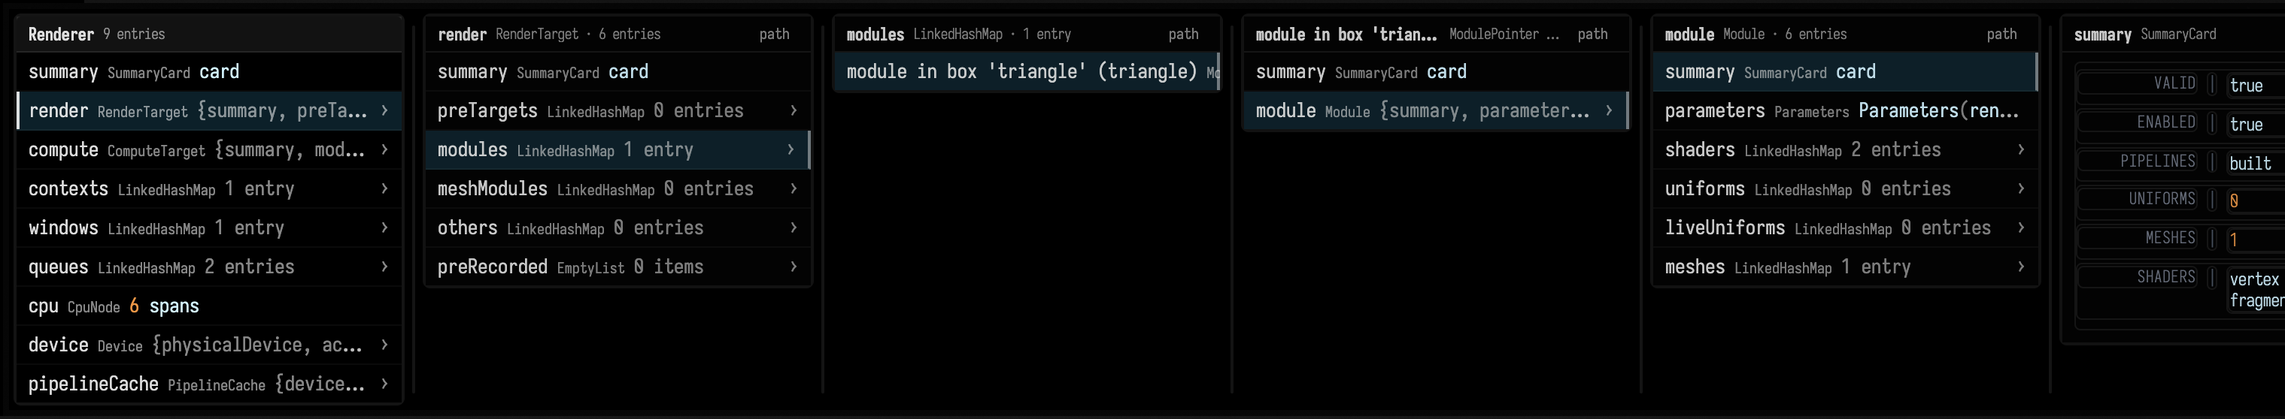
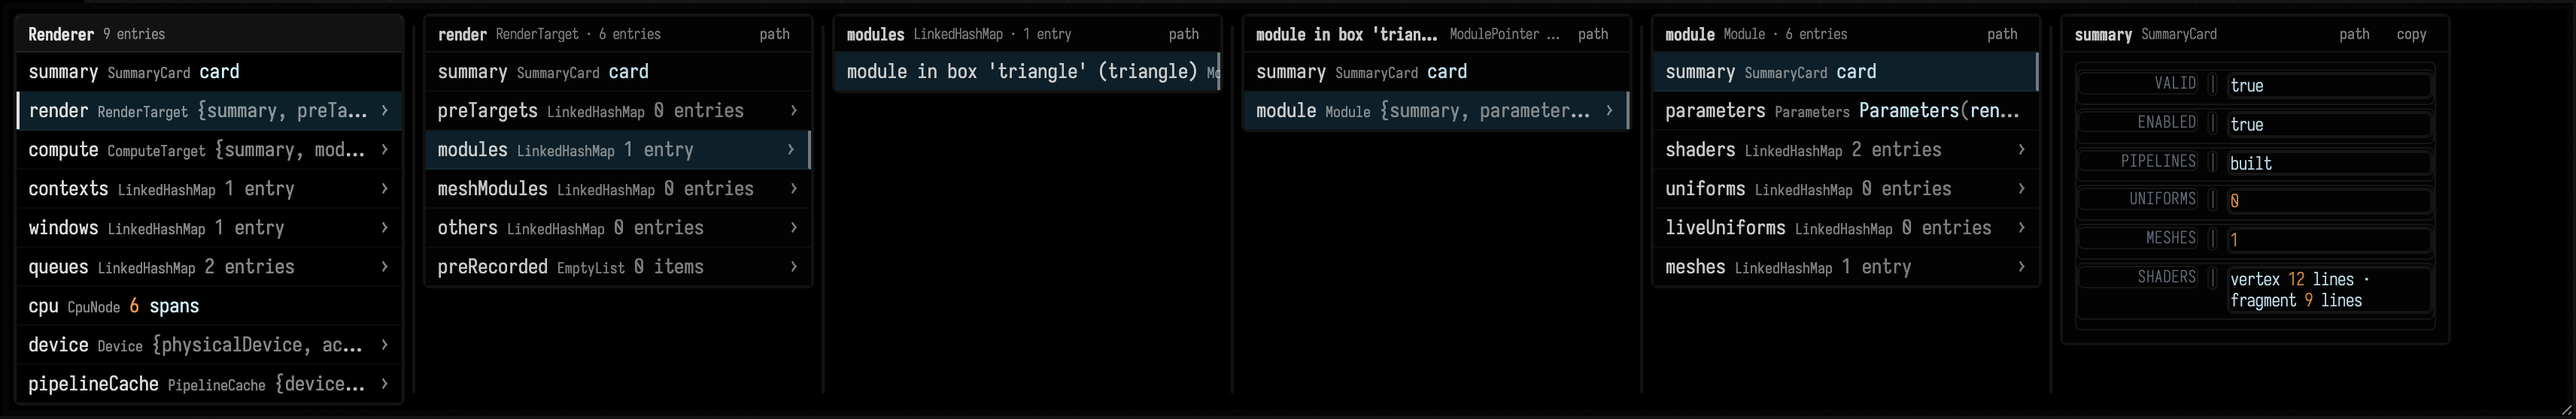
Docs: browse a glTF scene; root-cause the ui.pause "reply loss"; unclipped renderer column
- visualizers.md: Browsing a glTF scene (column/tree over an Assimp AIScene).
- assimp_browsing.yaml demo + agent_transcripts.md entry (ran: 1 box, ok).
- INSPECTOR_EMBEDS.md: replies during ui.pause were never lost; the pre-fix
  reopenNode folded columns on the renderer root 1 Hz version tick (reproduced
  by restoring it under a drive). Registration and output-ordering notes.
- renderer_column capture: box moved to x=40 so the 1700px panel fits the
  1900px viewport; recaptured (the module card is no longer clipped).

diff --git a/dev_docs/INSPECTOR_EMBEDS.md b/dev_docs/INSPECTOR_EMBEDS.md
@@ -88,6 +88,29 @@ Facts that cost time:
 - `column(..., width = px, open = "a/b/c")`: a pixel panel width, and a path opened on load.
   `open` exists because a docs `capture="ui"` drive under `graphics-context=true` could not get
   inspector replies during `ui.pause` (columns stayed empty); opening during the setup
-  transcript's `wait` works. Not root-caused.
+  transcript's `wait` works. Root-caused 2026-10-28: replies were never lost. The same commit's
+  `reopenNode` fix was the cause: before it, the renderer root's version tick (about 1 Hz) folded
+  every column right of the root. Measured through a `drive` under a live renderer: with the old
+  `reopenNode` restored, a clicked `render` column was there 250 ms after the click and gone 3 s
+  later; with the fix, it stays. Non-graphics values and a reloaded iframe answered during
+  `ui.pause` either way. `open=` is still useful but is not a workaround.
 - Demo: `dev_docs/agents/transcripts/renderer_browsing.yaml`; capture:
   `docs_capture/renderer_column.yaml` -> `visualizers.md#browsing-the-renderer`.
+
+## Registration and ordering (2026-10-28)
+
+- Every adapter registration goes through `registerAllBrowsingAdapters()` (`browsing.kt`), called by
+  `installInspectorHandler`. `registerAssimpBrowsingAdapters()` had never been called, so an
+  `AIScene`, `GltfModel`, `MeshInstance` or `TRS` browsed by reflection. `InspectorTest` scans
+  `src/jvmMain` for `fun register*BrowsingAdapters(` and fails on one that is not called from
+  there. Demo: `dev_docs/agents/transcripts/assimp_browsing.yaml`.
+- Output panels came out in different orders, and a burst of `display()` lost panels. There were
+  three causes in `sendWithOutputBackPressure` (`Server.kt`): one `GlobalScope.launch` per frame,
+  so frames to one socket raced each other; a frame that got a slot went ahead of older buffered
+  frames; and the 4-deep rolling buffer evicted `set-output` frames just as it evicts `println` lines.
+  Now each session sends FIFO (`OrderedSessionSender`). A frame joins the buffer tail and the head
+  drains, under the pressure lock. A `set-output` replaces its own panel's buffered frame and is
+  never evicted. Probe: 6 boxes each running `display()` on 12 channels read `abcdefghijkl` every
+  time (two runs). With only the FIFO sender, the same probe gave `abcdefghikl`.
+- Renderer column capture: the panel was 1700 px wide but its box sat at x = 380 in a
+  1900 px viewport, so the clip lost the card on the right. The box now sits at x = 40, under the triangle.

diff --git a/public/docs/visualizers.md b/public/docs/visualizers.md
@@ -904,6 +904,21 @@ check(columns() >= 6) { inFrame("return d.body.innerText.slice(0, 600)") }
 check("shaders" in inFrame("return d.body.innerText")) { inFrame("return d.body.innerText") }
 ```
 
+### Browsing a glTF scene
+
+A scene file opens the same way. `GltfSupport.loadModel` gives Assimp's own view of a glTF (or any
+file Assimp reads), and `column(...)` or `tree(...)` lists its root node with its transform and
+children, then its meshes, materials and animations. A `GltfModel` loaded for drawing browses as its
+meshes, each with its buffers, material, texture slots and transform.
+
+```kotlin
+import afield.graphics.scene.GltfSupport
+
+val scene = GltfSupport.loadModel("dev_docs/agents/fixtures/path_tracing/transforms.gltf")!!
+column("columns", scene, width = 1300)
+tree("tree", scene, width = 700)
+```
+
 And while it is not a “visualizer” in the chart sense, `logs(...)` belongs in the same family. This box shows only the `demo` channel and logs a small job into it; rows that share a block id are grouped under the block's first line:
 
 ```diffstatic_runner {data-lang=kotlin screenshot="assets/visualizers-logs.png" alt="A logs embed with a channels: demo chip, a find box and a clear button. Below, one grouped block in the demo channel, each row with its time: starting a job, then step 1 of 3, step 2 of 3 and step 3 of 3, the block running on below the bottom of the panel." wait="3.0" capture="box" open-outputs="true" w="900" h="200" embed=true name="logs-demo"}

diff --git a/public/docs/agent_transcripts.md b/public/docs/agent_transcripts.md
@@ -2987,6 +2987,14 @@ refresh about once a second while the renderer runs. See
 
 [Open ↗](offline.html?file=assets/agent_transcripts/renderer_browsing/metadata.edn)
 
+### assimp_browsing
+
+**A glTF file, as Assimp loads it, opened in `column(...)` and `tree(...)`**, in one box and with no
+renderer: the scene's root node and its transform, meshes, materials and animations. See
+[Browsing a glTF scene](visualizers.md#browsing-a-gltf-scene).
+
+[Open ↗](offline.html?file=assets/agent_transcripts/assimp_browsing/metadata.edn)
+
 ### flow_grain
 
 A bounded pool of scrolling fluid tiles, flow-oriented grain, smoothed-velocity particle
